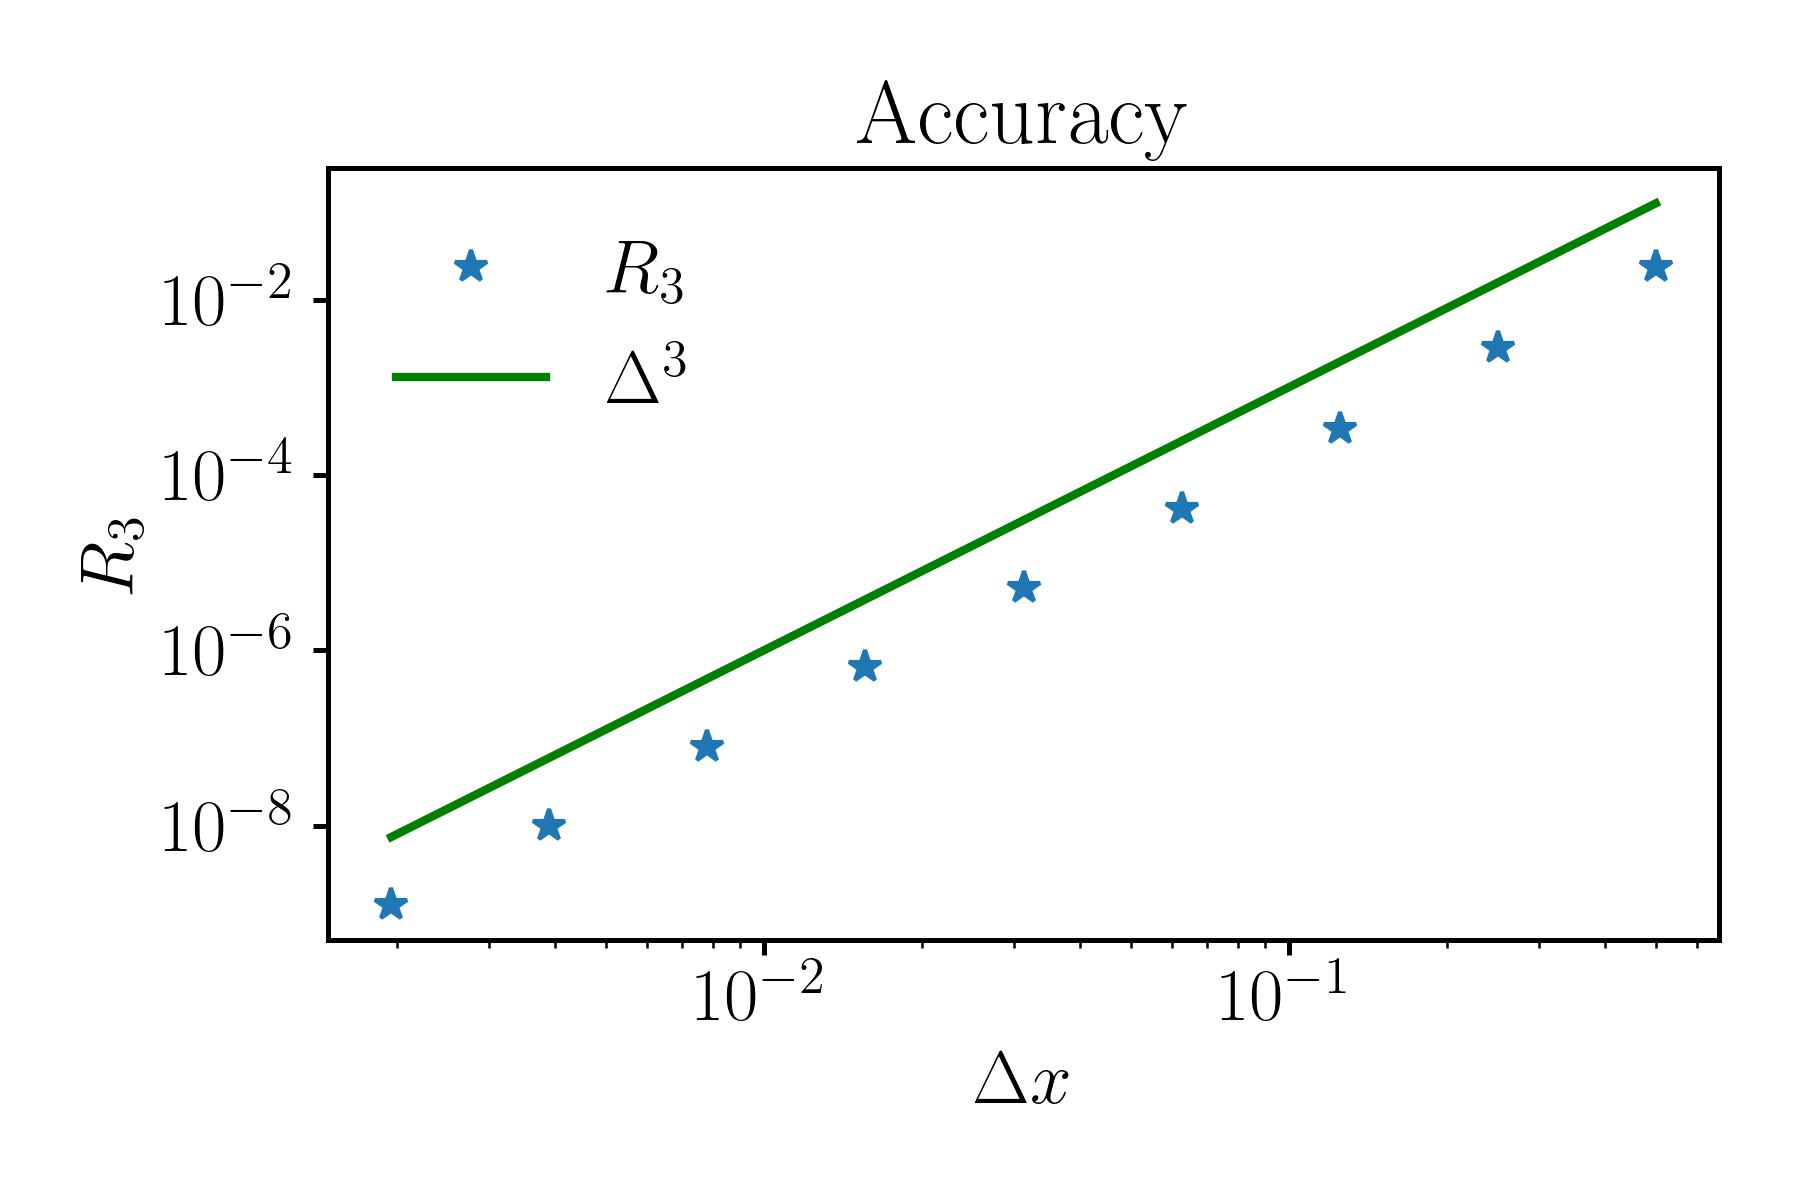
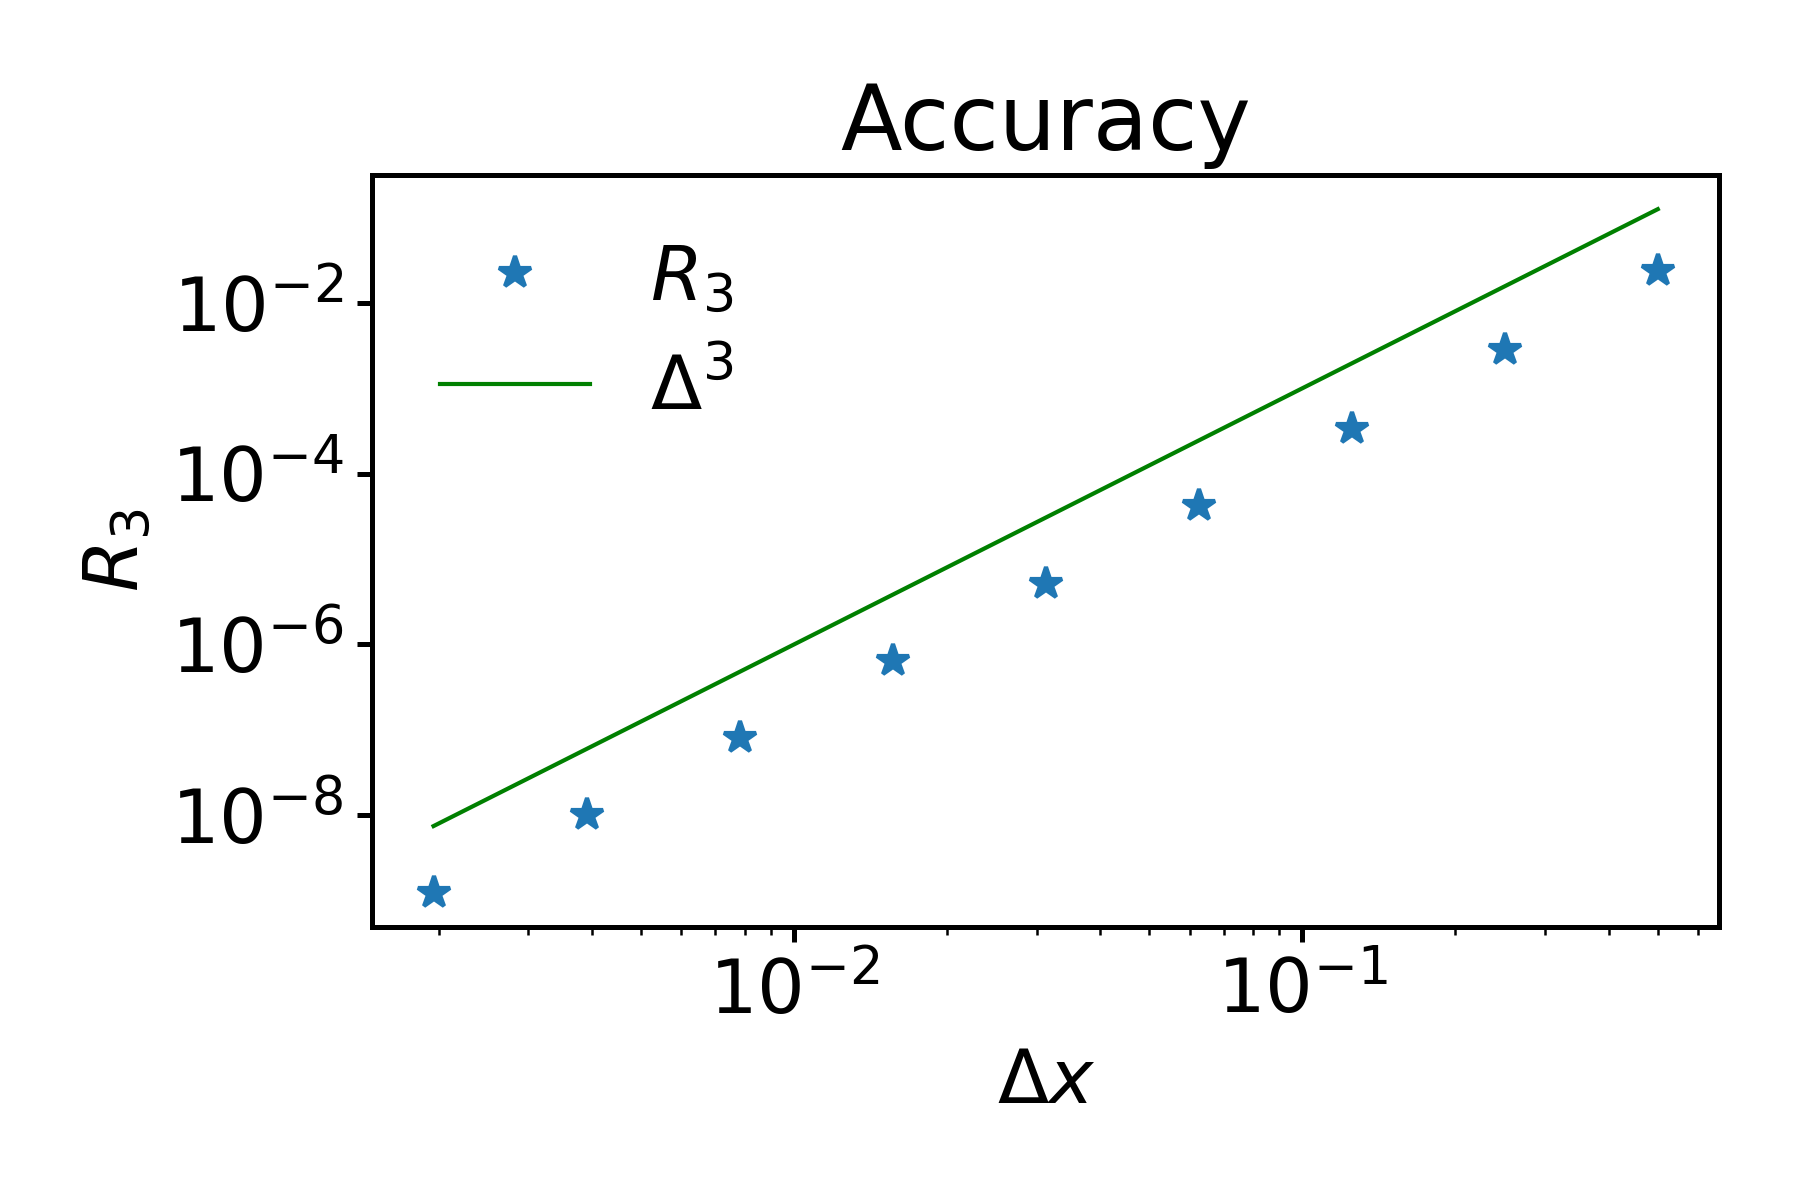
TaylorExpansion nb finalized.

diff --git a/notebooks/01_Introduction/01_02_TaylorExpansion.md b/notebooks/01_Introduction/01_02_TaylorExpansion.md
@@ -28,6 +28,8 @@ jupyter:
 
     2.1 [Expansion of exponential function](#Expansion-of-exponential-function)
 
+3. [Exercises](#Exercises)
+
 
 ## Introduction
 
@@ -104,23 +106,37 @@ To make things more concrete and to write our first Python code of the course, l
 e^{\Delta x} = 1 + \Delta x + \frac{(\Delta x)^2}{2} + R_3,\quad\quad R_3=e^{\xi} \frac{(\Delta x)^3}{3!},\label{eq:residual} \quad\quad 0\leq \xi \leq \Delta x.
 \end{equation}
 
-As $e^x$ is monotonously inscreasing, we certainly can bound $e^{\xi}$ by $e$ when $\Delta x \rightarrow 0$. Therefore, $\vert R_3 \vert \leq e \frac{(\Delta x)^3}{3!} = O(\Delta x)^3$. Let's check using Python that this is indeed the case.
+As $e^x$ is monotonously inscreasing, we certainly can bound $e^{\xi}$ by $e$ when $\Delta x \rightarrow 0$. Therefore, $\vert R_3 \vert \leq e \frac{(\Delta x)^3}{3!} = O(\Delta x)^3$.
 
-First of all, we need to *import* some Python packages into our code. One Python file can access the content of another by *importing* it. Packages we are interested in at this stage are: 
+Let's write a Python code to check if this is indeed the case.
+
+First of all, we need to *import* some Python packages into our code. One Python file can access the content of another by *importing* it. Packages we are going to be interested in the most throughout the course are: 
 
 * ``NumPy``
 
-    > [NumPy][1] is the fundamental package for scientific computing in Python. It is a Python library that provides a multidimensional array object, various derived objects (such as masked arrays and matrices), and an assortment of routines for fast operations on arrays, including mathematical, logical, shape manipulation, sorting, selecting, I/O, discrete Fourier transforms, basic linear algebra, basic statistical operations, random simulation and much more.
-    
+    > [NumPy][10] is the fundamental package for scientific computing in Python. It is a Python library that provides a multidimensional array object, various derived objects (such as masked arrays and matrices), and an assortment of routines for fast operations on arrays, including mathematical, logical, shape manipulation, sorting, selecting, I/O, discrete Fourier transforms, basic linear algebra, basic statistical operations, random simulation and much more.
+
+* ``SciPy``
+
+    > [SciPy][11] is a collection of mathematical algorithms and convenience functions built on the NumPy extension of Python. It adds significant power to the interactive Python session by providing the user with high-level commands and classes for manipulating and visualizing data. With SciPy, an interactive Python session becomes a data-processing and system-prototyping environment rivaling systems, such as MATLAB, IDL, Octave, R-Lab, and SciLab.
+
 * ``Matplotlib``
-    > [Matplotlib][2] is a comprehensive library for creating static, animated, and interactive visualizations in Python.
+    > [Matplotlib][12] is a comprehensive library for creating static, animated, and interactive visualizations in Python.
 
-[1]: <https://numpy.org/doc/stable/user/whatisnumpy.html> "Why NumPy?"
-[2]: <https://matplotlib.org> "Matplotlib"
+*NumPy*, *SciPy* and *Matplotlib* are fundamental packages for scientific computations in Python. 
 
-These 2 packages form the basis of scientific computations in Python. *NumPy* provides tools to solve huge variety of different mathematical problems, and *Matplotlib* provides tools to visualize any kind of numerical data.
+*NumPy* and *SciPy* are better to be understood together, because *SciPy actually builds on NumPy*.
+
+> [Both NumPy and SciPy][13] are Python libraries used for used mathematical and numerical analysis. NumPy contains array data and basic operations such as sorting, indexing, etc whereas, SciPy consists of all the numerical code. Though NumPy provides a number of functions that can help resolve linear algebra, Fourier transforms, etc, SciPy is the library that actually contains fully-featured versions of these functions along with many others.
+
+*Matplotlib* provides tools to visualize any kind of numerical data.
 
 Imports in Python are performed using `import` statement:
+
+[10]: <https://numpy.org/doc/stable/user/whatisnumpy.html> "Why NumPy?"
+[11]: <https://docs.scipy.org/doc/scipy/reference/tutorial/general.html> "SciPy"
+[12]: <https://matplotlib.org> "Matplotlib"
+[13]: <https://medium.com/edureka/scipy-tutorial-38723361ba4b> "NumPy vs SciPy"
 ```python
 import numpy
 ```
@@ -210,6 +226,10 @@ When we want to define a given quantity at a set of points, we might use *either
 Keep in mind, though, that you will encounter situations when it will be more convenient for you to create a list first and then transform it into *NumPy* array.
 
 Let us consider <a name="exc1"> a few ways </a> of building a numerical sequence. Assume $\Delta x=f(k)$, where $k$ is an integer number defined in $k=1, 2,...,9$. To demonstrate the advantages of one approach over the others, we will use the *cell* magic command `%%time`. Double `%` here means that the command is applied to the *whole* cell.
+
+Note, that the concept of *cell* in Python does not exist - it is unique to Jupyter Notebook, just as magic commands are unique to IPython. Notebook in Jupyter Notebook is a sequence of cells, which can be filled with Python code, documentation text written in [Markdown][14], or *raw* text, that is not evaluated by Jupyter Notebook.
+
+[14]: <https://www.markdownguide.org/getting-started/> "Markdown"
 
 
 1. *Create a Python list in a loop and then transform it into a NumPy array*
@@ -399,17 +419,29 @@ fig, ax = plt.subplots()
 # plot with stars as markers. label argument
 # defines the description for the data, which will
 # be displayed in the legend.
-ax.loglog(delta, R3, '*', label=r'$R_3$')
+ax.loglog(delta, R3, '*', label='$R_3$')
 
 # We plot delta^3 with the same log scaling
 # to show that R3 is of order delta^3. See
 # that you can configure the color of dots and
 # lines you plot with the color argument.
-ax.loglog(delta, slope, color='green', label=r'$\Delta^{3}$')
+#
+# This is one way to set a color of a curve - 
+# by simply passing the name of a color to
+# the function. But this way is limited to only
+# 8 colors. If you need bigger variety, 
+# Matplotlib supports RGBA format. You can either
+# pass a tuple of float values in range [0, 1]
+# as (red, green, blue, alpha), or you can
+# pass an RGBA string.
+# More info
+# https://matplotlib.org/3.1.1/tutorials/colors/colors.html
+#
+ax.loglog(delta, slope, color='green', label='$\Delta^{3}$')
 
 # We set labels of x axis and y axis.
-ax.set_xlabel(r'$\Delta x$')
-ax.set_ylabel(r'$R_3$')
+ax.set_xlabel('$\Delta x$')
+ax.set_ylabel('$R_3$')
 
 # We set the title, which in this case is only
 # related to the subplot referred by ax, but
@@ -460,7 +492,7 @@ A nice feature of matplotlib is that it can display rendered LaTeX equations in 
 
 Some exercises' prefixes are links, click on them to see what part of text they refer to.
 
-[**Exercise 1:**](#exc1) If you were to make a valid estimate of which approach to generate the deltas is the fastest, how would you proceed ? What result do you then get?
+[**Exercise 1:**](#exc1) If you were to make a valid estimate of which approach to generate the deltas is the fastest, how would you proceed? What result do you then get?
 
 
 [**Exercise 2:**](#exc2) In order to see by yourself the advantages of *NumPy*, generate the $R_3$ sequence using *Python's* standard `math` module. For that purpose, only use the `delta_list` object instead of the `delta` numpy array. Time both the referenced cell and your code. *Note* that by design, cell magic commands *must* be at the very top of the cell. In order to import the `math` module, run
@@ -481,7 +513,7 @@ For a better understanding of the task consider the following example:
 
 <img src="../figures/TaylorExampleExercise.png">
 
-Find expansion of a function on [*Wikipedia*][9].
+Find expansion of the example function on [*Wikipedia*][9].
 
 [9]: <https://en.wikipedia.org/wiki/Taylor_series> "Example"
 <!-- #endregion -->
